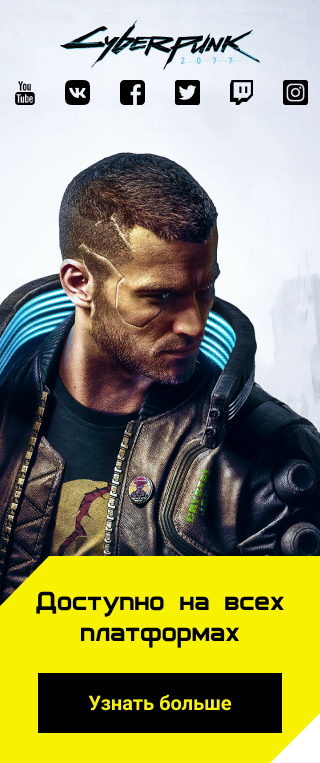
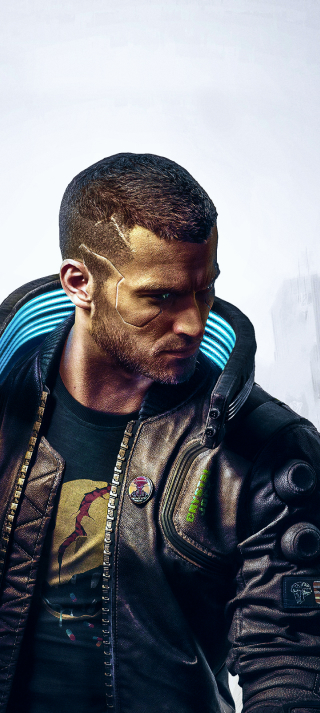
create hero-phone

diff --git a/index.html b/index.html
@@ -9,22 +9,28 @@
 </head>
 
 <body>
-    <div class="container">
-        <header class="header">
+
+    <header class="header">
+        <div class="container">
             <nav class="nav">
                 <a href="./index.html" class="nav__logo"><img src="./images/logo.svg" alt="logo"></a>
                 <div class="nav__links">
-                  <a class="nav__link" href="#"><img src="./images/facebook.svg" alt="facebook"></a>
-                  <a class="nav__link" href="#"><img src="./images/instagram.svg" alt="instagram"></a>
-                  <a class="nav__link" href="#"><img src="./images/twitch.svg" alt="twitch"></a>
-                  <a class="nav__link" href="#"><img src="./images/twitter.svg" alt="twitter"></a>
-                  <a class="nav__link" href="#"><img src="./images/vk.svg" alt="vk"></a>
-                  <a class="nav__link" href="#"> <img src="./images/YouTube.svg" alt="YouTube"></a>
+                    <a class="nav__link" href="#"><img src="./images/facebook.svg" alt="facebook"></a>
+                    <a class="nav__link" href="#"><img src="./images/instagram.svg" alt="instagram"></a>
+                    <a class="nav__link" href="#"><img src="./images/twitch.svg" alt="twitch"></a>
+                    <a class="nav__link" href="#"><img src="./images/twitter.svg" alt="twitter"></a>
+                    <a class="nav__link" href="#"><img src="./images/vk.svg" alt="vk"></a>
+                    <a class="nav__link" href="#"> <img src="./images/YouTube.svg" alt="YouTube"></a>
                 </div>
 
             </nav>
-        </header>
-    </div>
+        </div>
+        <div class="square">
+            <h1 class="square__title">Доступно на всех платформах</h1>
+            <button class="square__btn">Узнать больше</button>
+        </div>
+    </header>
+
 
 
 </body>

diff --git a/style.css b/style.css
@@ -38,4 +38,59 @@ body {
   --mobile: 320px;
   --tablet: 1024px;
   --desctop: 1920px;
+}
+
+.container {
+  min-width: var(--mobile);
+  width: 100%;
+  margin: 0 auto;
+  padding: 0 12px;
+}
+
+.header {
+  background-image: url(./images/hero-phone.jpg);
+  min-height: 750px;
+  background-position: center;
+  background-size: cover;
+  display: flex;
+  flex-direction: column;
+  justify-content: space-between;
+}
+
+.nav {
+  margin: 0 auto;
+  width: 100%;
+  display: flex;
+  flex-direction: column;
+  align-items: center;
+  gap: 10px;
+}
+
+.square {
+  min-width: 320px;
+  background-color: var(--yellow);
+  padding: 30px 0;
+  margin-bottom: -50px;
+  display: flex;
+  flex-direction: column;
+  -webkit-clip-path: polygon(15% 1%, 100% 0, 100% 85%, 88% 100%, 0% 100%, 0% 15%);
+          clip-path: polygon(15% 1%, 100% 0, 100% 85%, 88% 100%, 0% 100%, 0% 15%);
+  gap: 25px;
+  align-items: center;
+}
+.square__title {
+  font-family: "Archangelsk";
+  font-weight: 600;
+  font-size: 30px;
+  text-align: center;
+  color: var(--text-primary);
+}
+.square__btn {
+  font-family: var(--font-family);
+  font-weight: 700;
+  font-size: 20px;
+  text-align: center;
+  color: var(--yellow);
+  background-color: var(--text-primary);
+  padding: 50px 10px;
 }/*# sourceMappingURL=style.css.map */

diff --git a/style.scss b/style.scss
@@ -42,3 +42,59 @@ body {
     --tablet: 1024px;
     --desctop: 1920px;
 }
+
+.container {
+    min-width: var(--mobile);
+    width: 100%;
+    margin: 0 auto;
+    padding: 0 12px;
+}
+
+.header {
+    background-image: url(./images/hero-phone.jpg);
+    min-height: 750px;
+    background-position: center;
+    background-size: cover;
+    display: flex;
+    flex-direction: column;
+    justify-content: space-between;
+}
+
+.nav {
+    margin: 0 auto;
+    width: 100%;
+    display: flex;
+    flex-direction: column;
+    align-items: center;
+    gap: 10px;
+}
+
+.square {
+    min-width: 320px;
+    background-color: var(--yellow);
+    padding: 30px 0;
+    margin-bottom: -50px;
+    display: flex;
+    flex-direction: column;
+    clip-path: polygon(15% 1%, 100% 0, 100% 85%, 88% 100%, 0% 100%, 0% 15%);
+    gap: 25px;
+    align-items: center;
+
+    &__title {
+        font-family: "Archangelsk";
+        font-weight: 600;
+        font-size: 30px;
+        text-align: center;
+        color: var(--text-primary);
+    }
+
+    &__btn {
+        font-family: var(--font-family);
+        font-weight: 700;
+        font-size: 20px;
+        text-align: center;
+        color: var(--yellow);
+        background-color: var(--text-primary);
+        padding: 50px 10px;
+    }
+}
